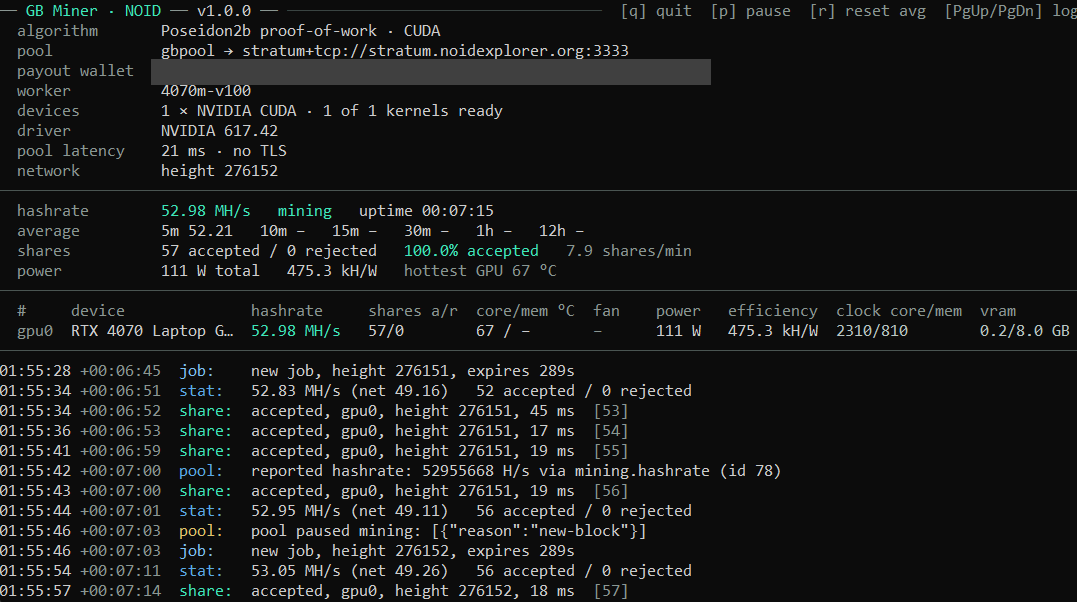
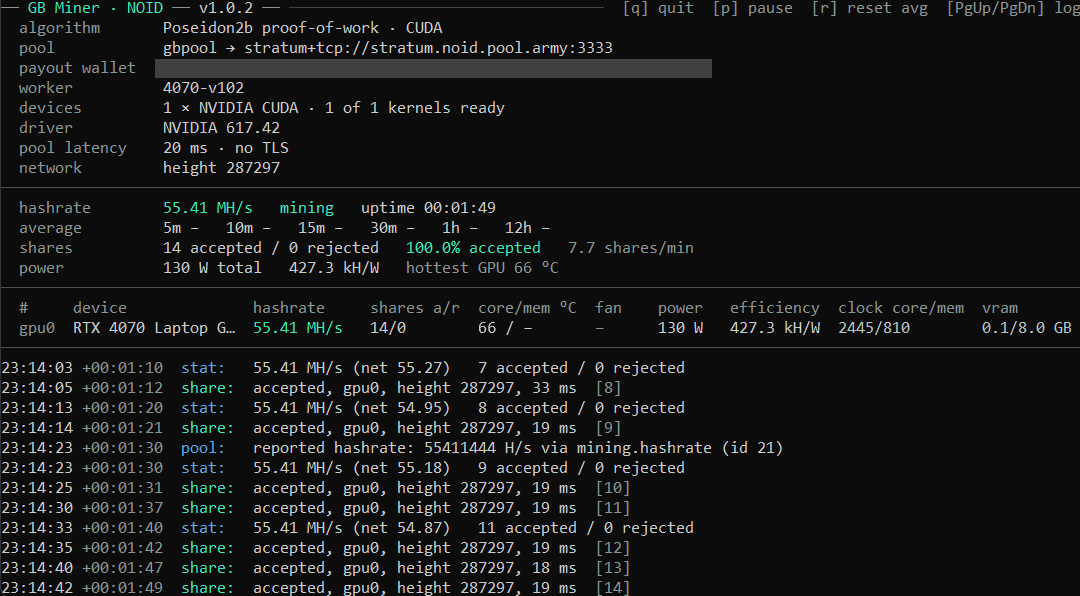
README: links to the latest release; dashboard screenshots of v1.0.2

Changed region(s): [[0.0, 0.5134, 1.0, 1.0], [0.0, 0.0, 1.0, 0.4832], [0.5515, 0.5134, 0.5822, 0.5436]]

diff --git a/README.md b/README.md
@@ -23,7 +23,7 @@ Since 1.0.1:
 - **HiveOS on a rig with an integrated GPU:** the panel showed one card's hashrate on the integrated GPU (for example an Intel HD Graphics) and left the last card empty, because the HiveOS script reported shifted bus numbers. It now reports each card's own bus number; mining itself and the total hashrate were never affected.
 - RTX 30/40/50, GA100 and Hopper cards run the same kernels as before.
 
-The complete lists of the new and the faster GPUs and the NVIDIA driver per GPU family are in the [release notes](../../releases/tag/v1.0.2).
+The complete lists of the new and the faster GPUs and the NVIDIA driver per GPU family are in the [release notes](../../releases/latest).
 
 Since 1.0.0:
 
@@ -38,7 +38,7 @@ Since 1.0.0:
 
 ## Download
 
-Get the archive for your platform from [Releases](../../releases/tag/v1.0.2), unpack it, and run it from inside the folder.
+Get the archive for your platform from [Releases](../../releases/latest), unpack it, and run it from inside the folder.
 
 | Platform | Archive |
 |---|---|
